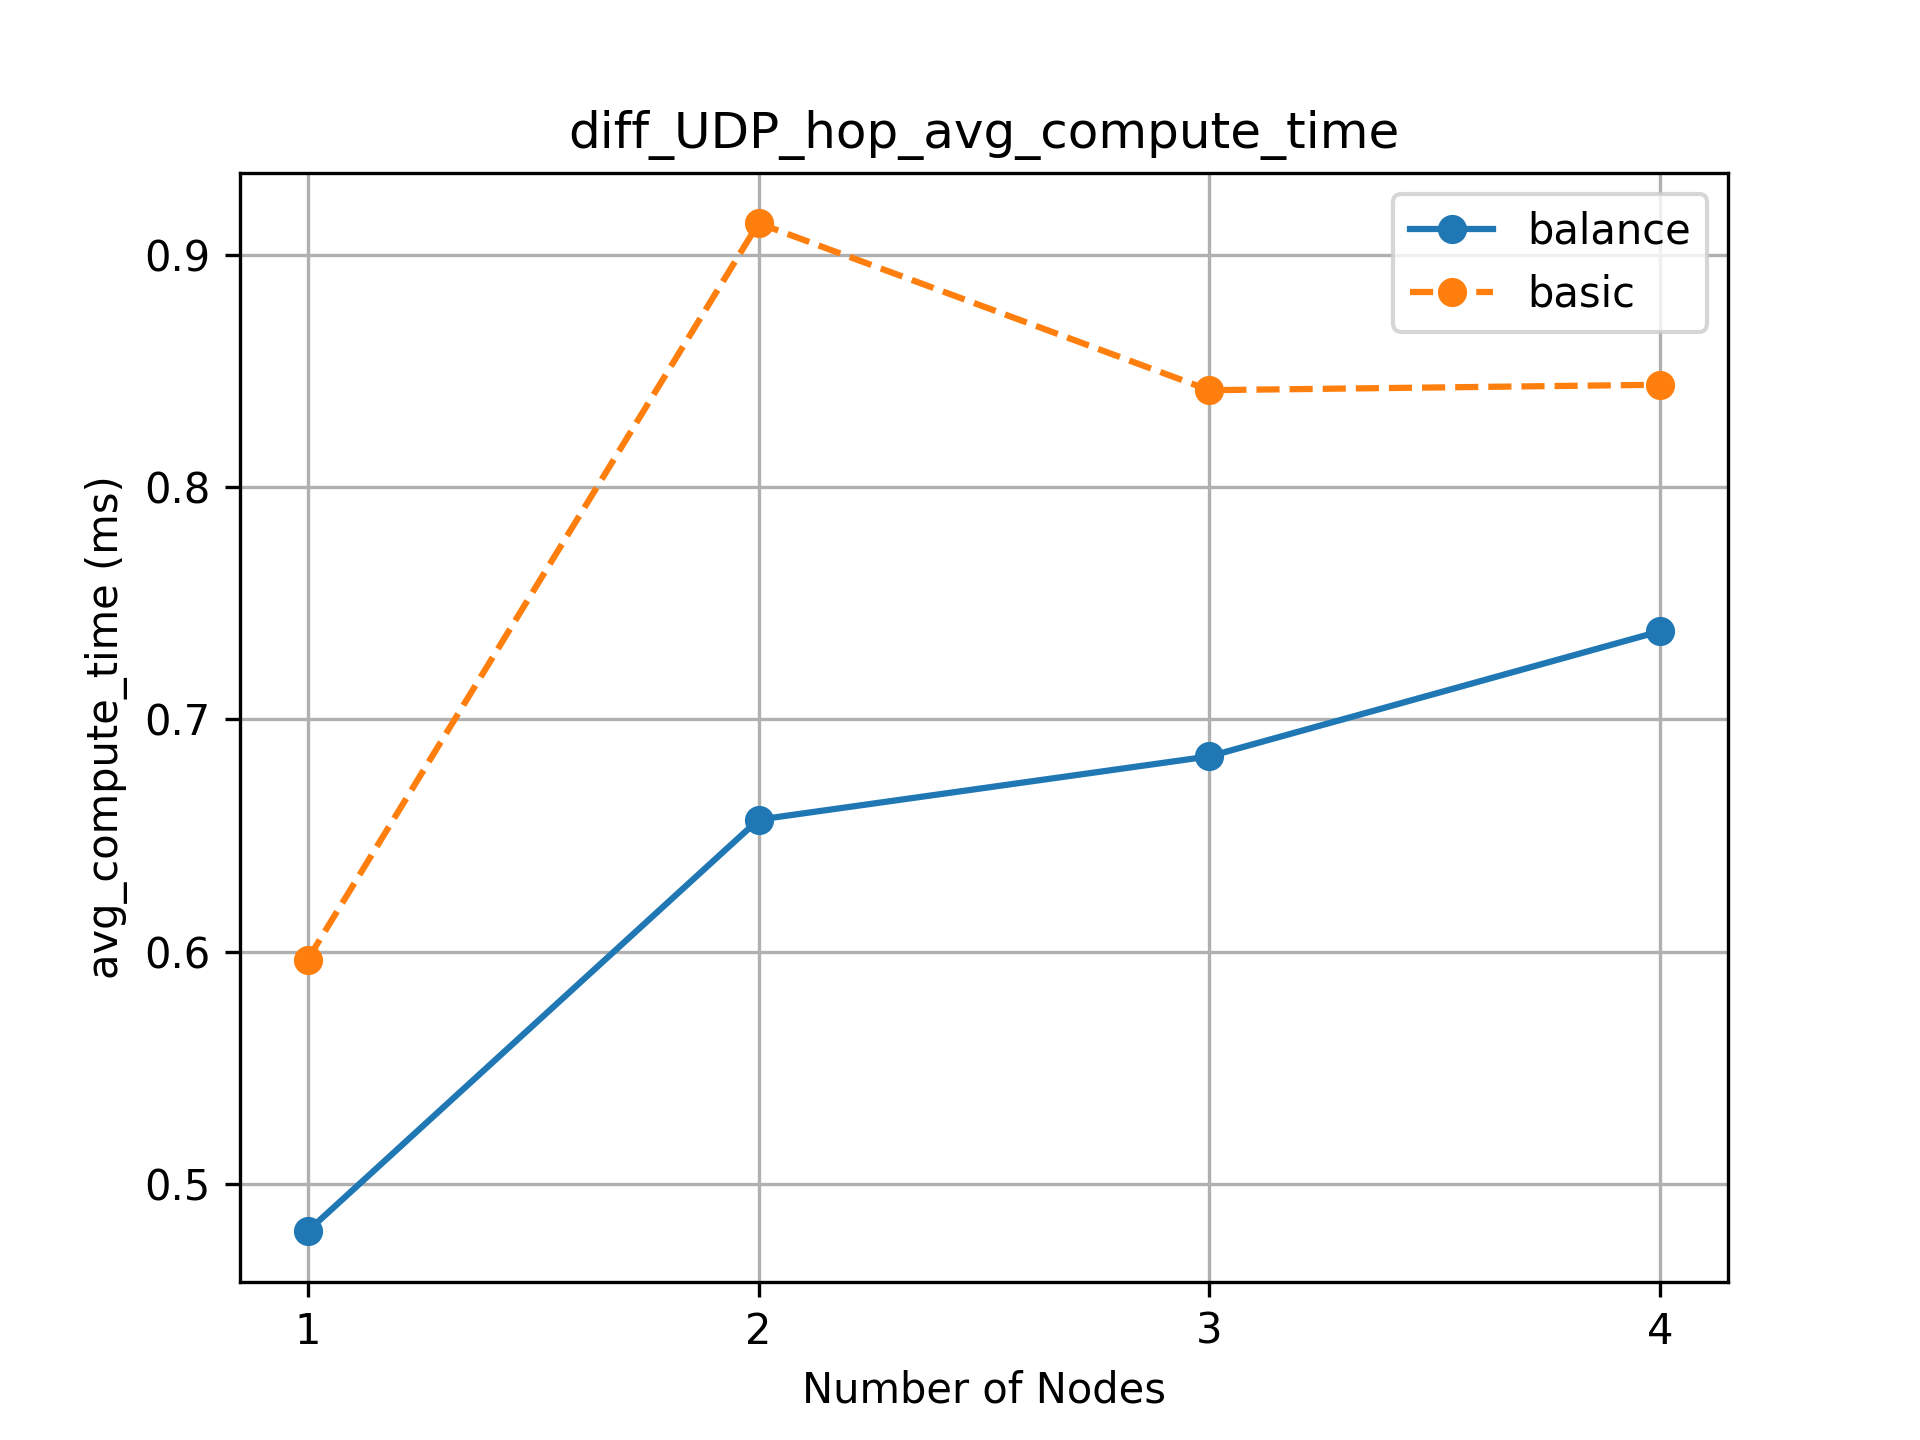
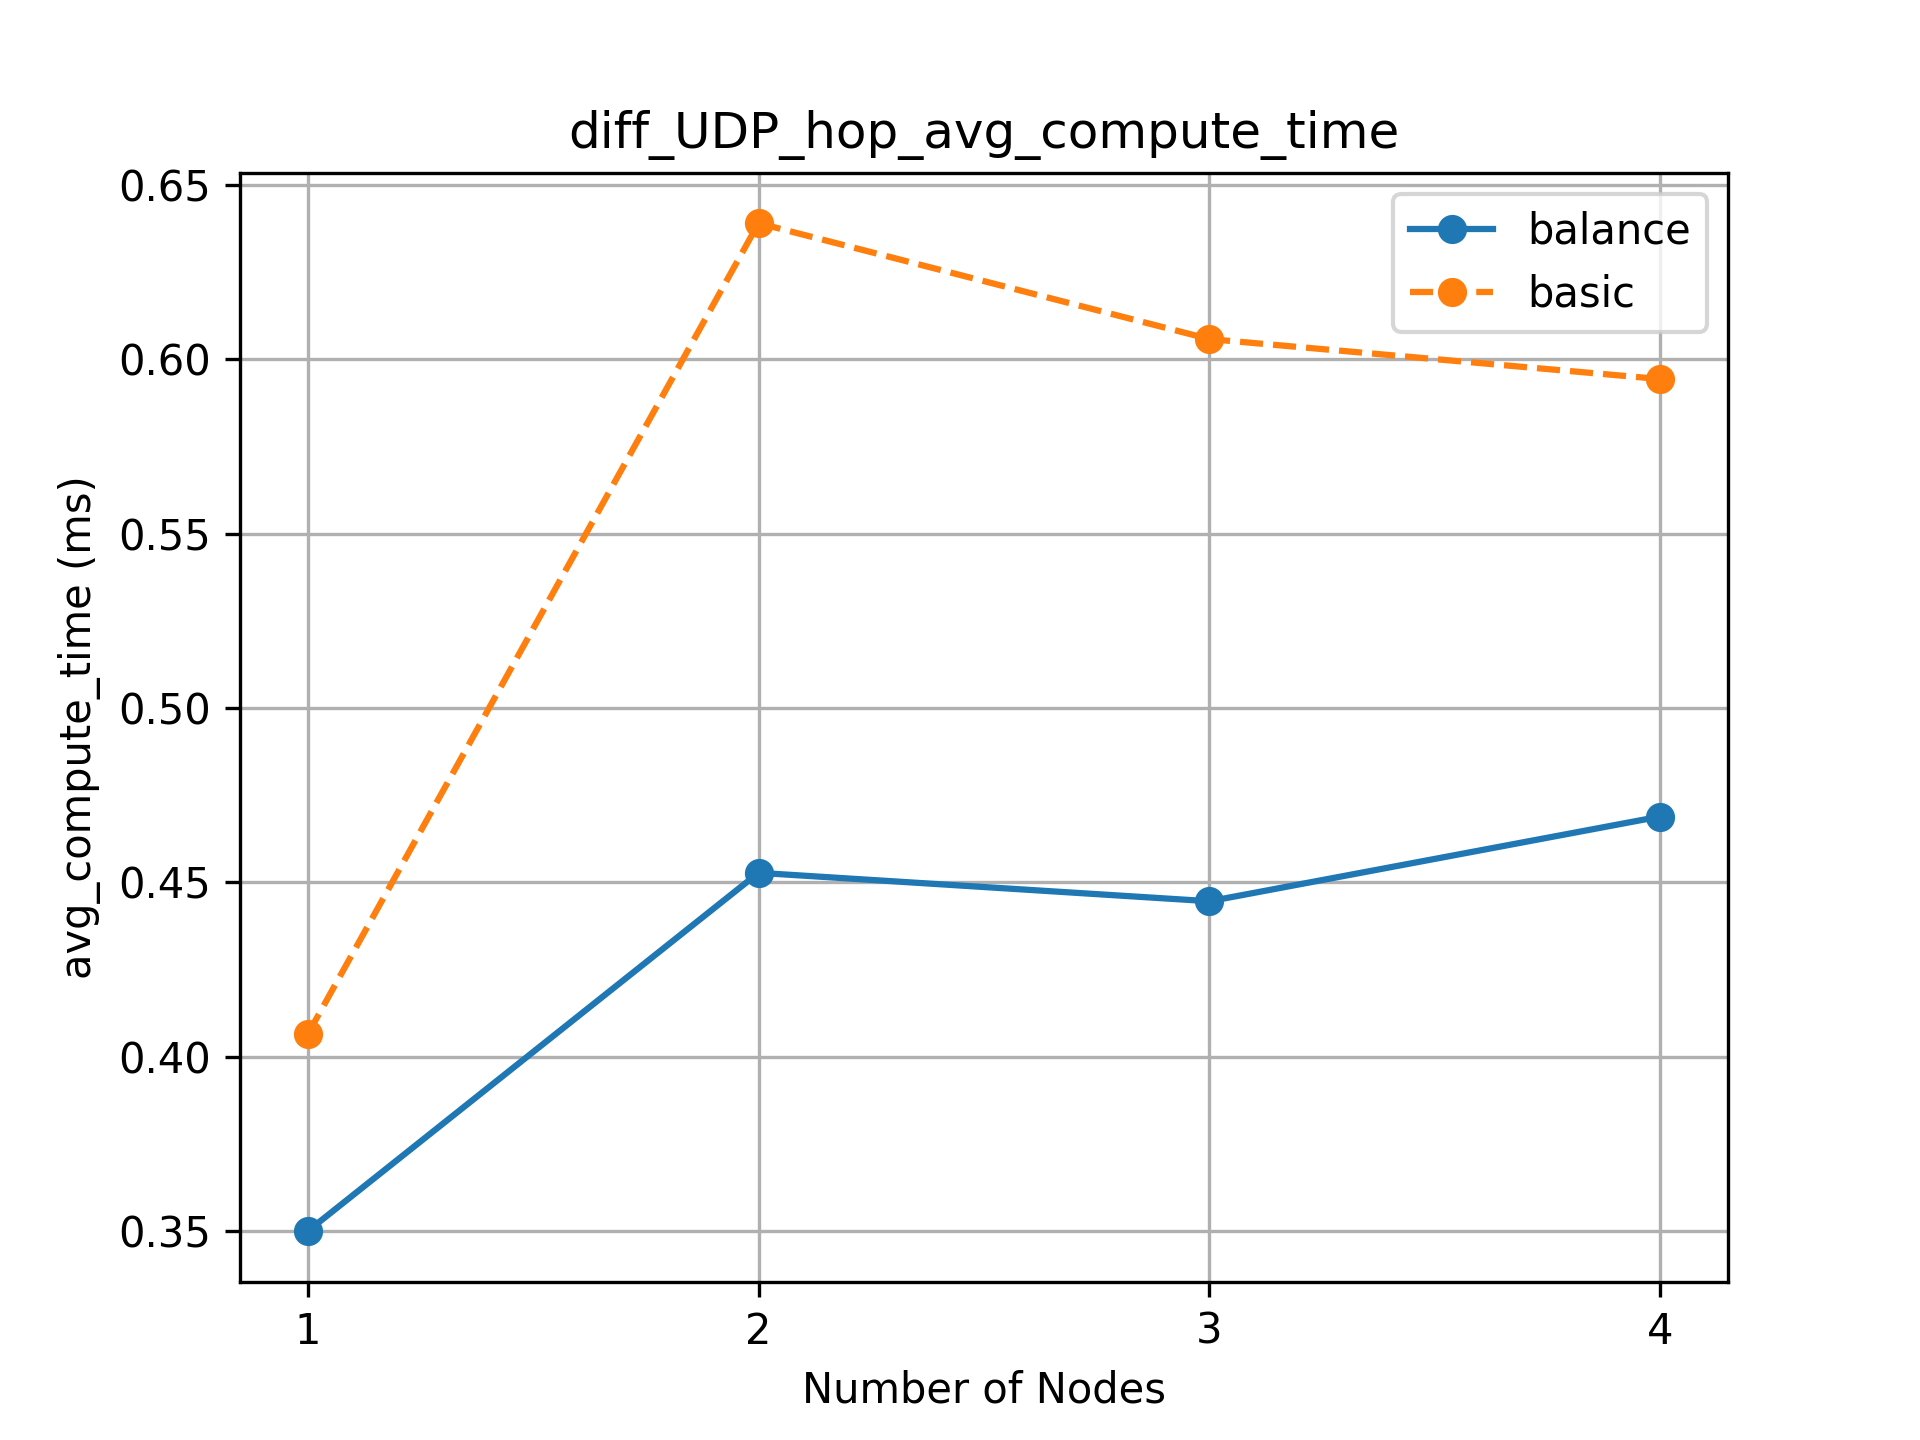
update result to 1K iteration (disble MED)

diff --git a/main.cc b/main.cc
@@ -136,12 +136,14 @@ main(int argc, char* argv[])
 
     setupLogging();
 
+    // basic 3874 bytes
+
     if (debug)
     {
-        // g_send_type = "balance";
-        g_send_type = "basic";
+        g_send_type = "balance";
+        // g_send_type = "basic";
 
-        g_subnet = "same";
+        g_subnet = "diff";
 
         // g_protocol = "TCP";
         g_protocol = "UDP";
@@ -149,33 +151,46 @@ main(int argc, char* argv[])
         g_n_client = 4;
 
         runSimulation();
+    } else if (nRound)
+    {
+        g_send_type = "balance"; // 38064, 6344, 634
+        // g_send_type = "basic"; // 63259, 10543, 1054
+
+        g_subnet = "diff";
+
+        // g_protocol = "TCP";
+        g_protocol = "UDP";
+
+        g_n_client = 4;
+        runSimulation();
+        cout << to_string(r_num) << endl;
     }
     else
     {
-        int round = 100;
+        int round = 1000;
         fullSimulation(round);
     }
     return 0;
 }
 
-void
-animInt(string path, vector<NodeContainer> nodes)
-{
-    AnimationInterface anim(path + "output.xml");
-    NodeContainer server_nodes = nodes[0];
-    NodeContainer client_nodes = nodes[1];
+// void
+// animInt(string path, vector<NodeContainer> nodes)
+// {
+//     AnimationInterface anim(path + "output.xml");
+//     NodeContainer server_nodes = nodes[0];
+//     NodeContainer client_nodes = nodes[1];
 
-    anim.UpdateNodeDescription(server_nodes.Get(0), "Server");
-    anim.UpdateNodeColor(server_nodes.Get(0), 255, 0, 0);      // Red
-    anim.SetConstantPosition(server_nodes.Get(0), 10.0, 10.0); // Position for server node
+//     anim.UpdateNodeDescription(server_nodes.Get(0), "Server");
+//     anim.UpdateNodeColor(server_nodes.Get(0), 255, 0, 0);      // Red
+//     anim.SetConstantPosition(server_nodes.Get(0), 10.0, 10.0); // Position for server node
 
-    for (uint32_t i = 0; i < client_nodes.GetN(); ++i)
-    {
-        string name = "Client " + to_string(i + 1);
-        anim.UpdateNodeDescription(client_nodes.Get(i), name);
-        anim.UpdateNodeColor(client_nodes.Get(i), 0, 255, 0); // Green
-        anim.SetConstantPosition(client_nodes.Get(i), 20.0 + i * 5.0, 20.0);
-    }
-}
+//     for (uint32_t i = 0; i < client_nodes.GetN(); ++i)
+//     {
+//         string name = "Client " + to_string(i + 1);
+//         anim.UpdateNodeDescription(client_nodes.Get(i), name);
+//         anim.UpdateNodeColor(client_nodes.Get(i), 0, 255, 0); // Green
+//         anim.SetConstantPosition(client_nodes.Get(i), 20.0 + i * 5.0, 20.0);
+//     }
+// }
 
 // animInt("/home/ntk/workspace/ns-allinone-3.42/ns-3.42/scratch/project/", nodes);

diff --git a/addon/server.h b/addon/server.h
@@ -43,6 +43,8 @@ class ServerOBJ : public NodeOBJ
         json allTask = createTask(group_leader);
         clearResult(group_leader);
 
+        uint32_t totalPacketSize = 0;
+
         if (g_send_type == "balance")
         {
             json data = {{"Tag", "matrix"}};
@@ -50,6 +52,10 @@ class ServerOBJ : public NodeOBJ
             data["Body"]["Task"] = allTask;
             Ipv4Address destination = Ipv4Address(group_leader.c_str());
             serverSocketSend(data, destination, "matrix");
+            Ptr<Packet> packet = CreateJSONPacket(data);
+            totalPacketSize = packet->GetSize();
+            slog("Size of balance packet: " + std::to_string(packet->GetSize()) + " bytes");
+            
         }
         else // Basic
         {
@@ -60,13 +66,17 @@ class ServerOBJ : public NodeOBJ
                 json task = {{key, value}};
                 data["Body"]["Group"] = group_leader;
                 data["Body"]["Task"] = task;
-                // displayJson("data", data);
                 Ipv4Address destination = Ipv4Address(key.c_str());
                 serverSocketSend(data, destination, "matrix");
+                Ptr<Packet> packet = CreateJSONPacket(data);
+                totalPacketSize += packet->GetSize();
             }
+            slog("Total size of all basic packets: " + std::to_string(totalPacketSize) + " bytes");
+
         }
         processingTimer.stop();
         d_computational_time.push_back(processingTimer.getElapsedTime());
+        d_packet_size.push_back(totalPacketSize);
     }
 
   private:
@@ -241,6 +251,10 @@ class ServerOBJ : public NodeOBJ
         {
             combineResult(data["Body"]);
         }
+        if (tag == "disconnected")
+        {
+            // disconnect(sender_ip);
+        }
     }
 
     void createConnection(Ipv4Address sender_ip)
@@ -309,6 +323,7 @@ class ServerOBJ : public NodeOBJ
     string minTrafficIP()
     {
         slog("WIP : minTrafficIP() (Server.h)");
+        slog("      for client > 4");
         return group.begin().key();
     }
 
@@ -459,6 +474,12 @@ class ServerOBJ : public NodeOBJ
         resultTimer.stop();
         d_result_time.push_back(resultTimer.getElapsedTime());
         // printVector(d_result_time);
+        if (nRound)
+        {
+            r_num++;
+            cout << "r_num: "<< r_num << endl;
+            this->sendMatrix();
+        }
     }
 
     void printVector(const std::vector<double>& vec)

diff --git a/graphCSV.py b/graphCSV.py
@@ -33,19 +33,27 @@ def create_graph(title, subnet, protocol, distance, col_name):
     filename = title + ".png"
     plt.savefig(os.path.join(save_path, filename), format='png', dpi=300)
     plt.close()  # Close the figure to free memory
+    print(title)
 
 subnets = ["diff", "same"]
 protocols = ["TCP", "UDP"]
 distances = ["hop", "traffic"]
-time = ["avg_compute_time", "avg_result_time", "med_compute_time", "med_result_time"]
+# time = ["avg_compute_time", "avg_result_time", "med_compute_time", "med_result_time"]
+time = ["avg_compute_time", "avg_result_time"]
 
-for subnet in subnets:
-    for protocol in protocols:
-        for distance in distances:
-            if distance == "traffic":
-                continue
-            for t in time:
-                filename = f"{subnet}_{protocol}_{distance}_{t}"
-                print(filename)
-                create_graph(filename, subnet, protocol, distance, t)
+def create_all_graphs():
+    for subnet in subnets:
+        for protocol in protocols:
+            for distance in distances:
+                for t in time:
+                    filename = f"{subnet}_{protocol}_{distance}_{t}"
+                    create_graph(filename, subnet, protocol, distance, t)
+                    
+create_all_graphs()
 
+# # same subnet
+# create_graph("Avg compute time in same subnet on UDP", "same", "UDP", "hop", "avg_compute_time")
+# create_graph("Avg result time in same subnet on UDP", "same", "UDP", "hop", "avg_result_time")
+# # diff subnet
+# create_graph("Avg compute time in diff subnet on UDP", "diff", "UDP", "hop", "avg_compute_time")
+# create_graph("Avg result time in diff subnet on UDP", "diff", "UDP", "hop", "avg_result_time")

diff --git a/addon/result.h b/addon/result.h
@@ -45,6 +45,24 @@ computeStatistics()
                 ? (sortedData[sortedData.size() / 2 - 1] + sortedData[sortedData.size() / 2]) / 2.0
                 : sortedData[sortedData.size() / 2];
     }
+
+    // Packet Size
+    if (!d_packet_size.empty())
+    {
+        avg_packet_size =
+            accumulate(d_packet_size.begin(), d_packet_size.end(), 0.0) / d_packet_size.size();
+
+        vector<uint32_t> sortedData = d_packet_size;
+        sort(sortedData.begin(), sortedData.end());
+
+        med_packet_size =
+            sortedData.size() % 2 == 0
+                ? (sortedData[sortedData.size() / 2 - 1] + sortedData[sortedData.size() / 2]) / 2.0
+                : sortedData[sortedData.size() / 2];
+    }
+    if (debug) {
+        cout << "avg_packet_size: " << avg_packet_size << endl;
+    }
 }
 
 void

diff --git a/addon/global_values.h b/addon/global_values.h
@@ -6,16 +6,23 @@ int g_value = 99;
 // bool debug = true;
 bool debug = false;
 
+// bool nRound = true;
+bool nRound = false;
+
 // Data
 vector<double> d_computational_time;
 vector<double> d_result_time;
+vector<uint32_t> d_packet_size;
 
 // Results
 double avg_compute_time;
 double avg_result_time;
+double avg_packet_size;
 double med_compute_time;
 double med_result_time;
+double med_packet_size;
 vector<std::tuple<int, double, double, double, double>> results;
+int r_num = 0;
 
 // Parameters
 

diff --git a/addon/client.h b/addon/client.h
@@ -284,6 +284,11 @@ class ClientOBJ : public NodeOBJ
         else
         {
             distance = static_cast<int>(throughput);
+            if (debug)
+            {
+                string text = (this->name) + ", Throughput: " + to_string(distance) + " Mbps";
+                slog(text);
+            }
         }
         json data2 = {{"Tag", "return distance"}, {"Body", to_string(distance)}};
         json data = {{"Tag", "leaders"}, {"Body", data2}};

diff --git a/addon/implement_app.h b/addon/implement_app.h
@@ -80,7 +80,12 @@ ImplementApp(vector<NodeContainer> nodes)
         });
     }
 
-    Simulator::Schedule(MilliSeconds(100), []() { s->sendMatrix(); });
+    Simulator::Schedule(MilliSeconds(100), []() { 
+        s->sendMatrix(); 
+        if ((!debug) and nRound) {
+            Simulator::Schedule(Seconds(1), []() { Simulator::Stop(); });
+        }
+    });
 }
 
 #endif // IMPLEMENT_APP_H
